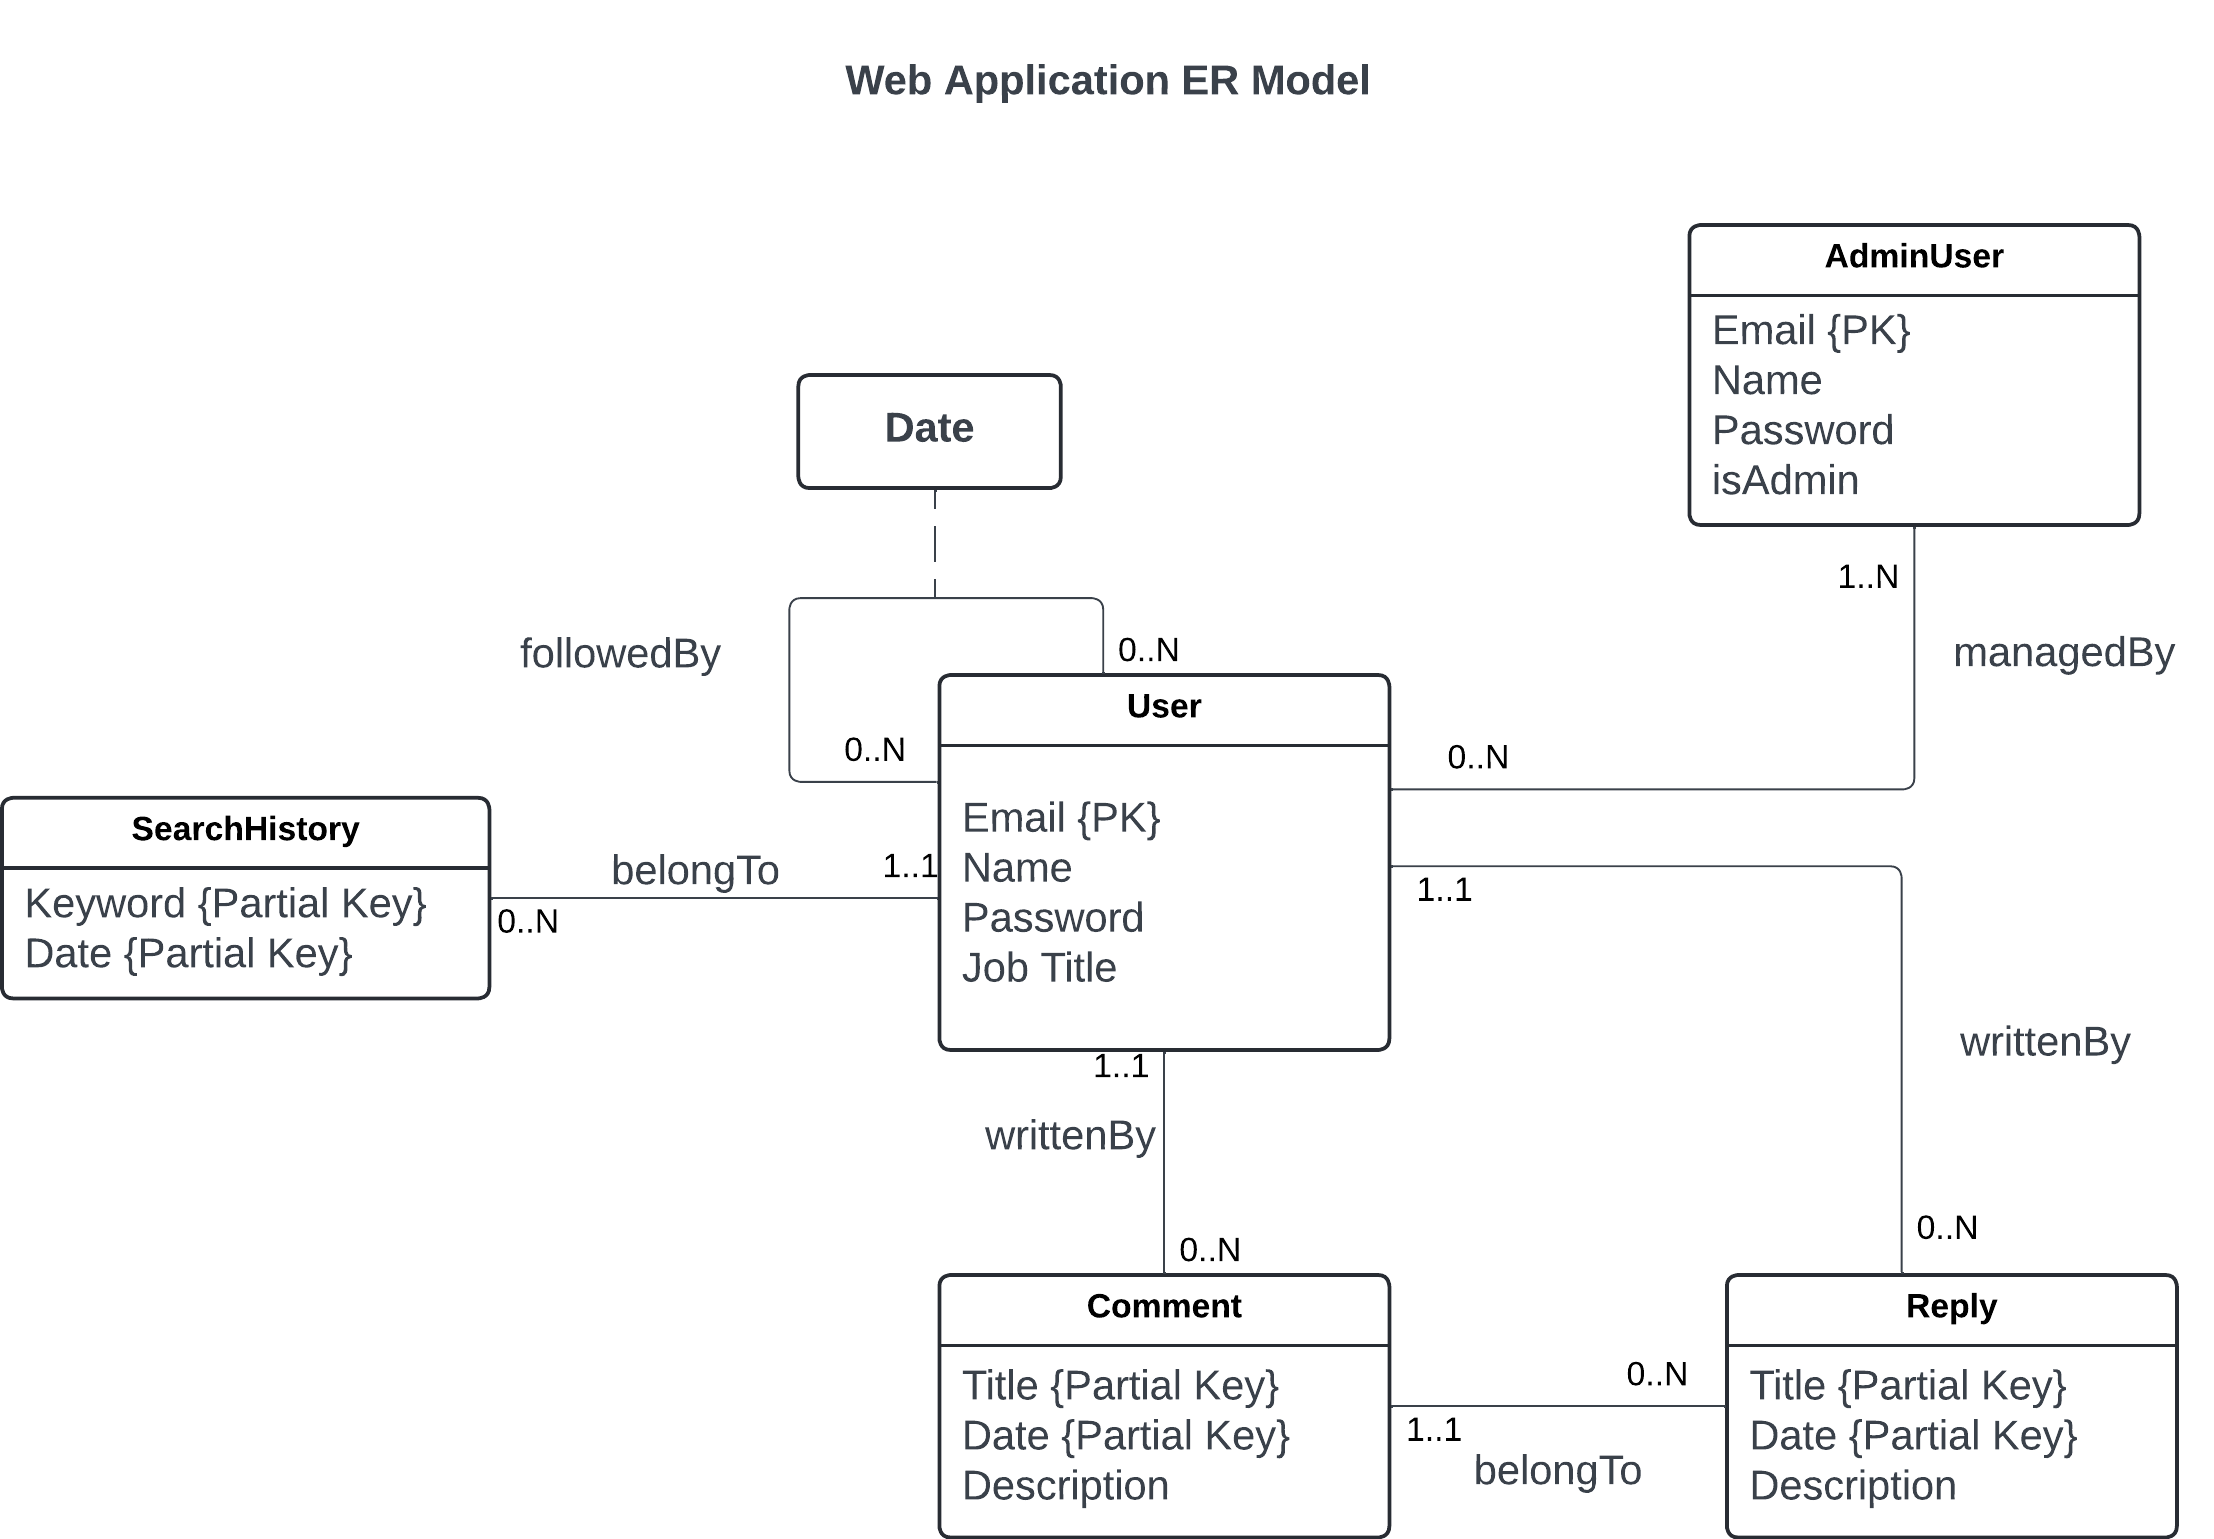
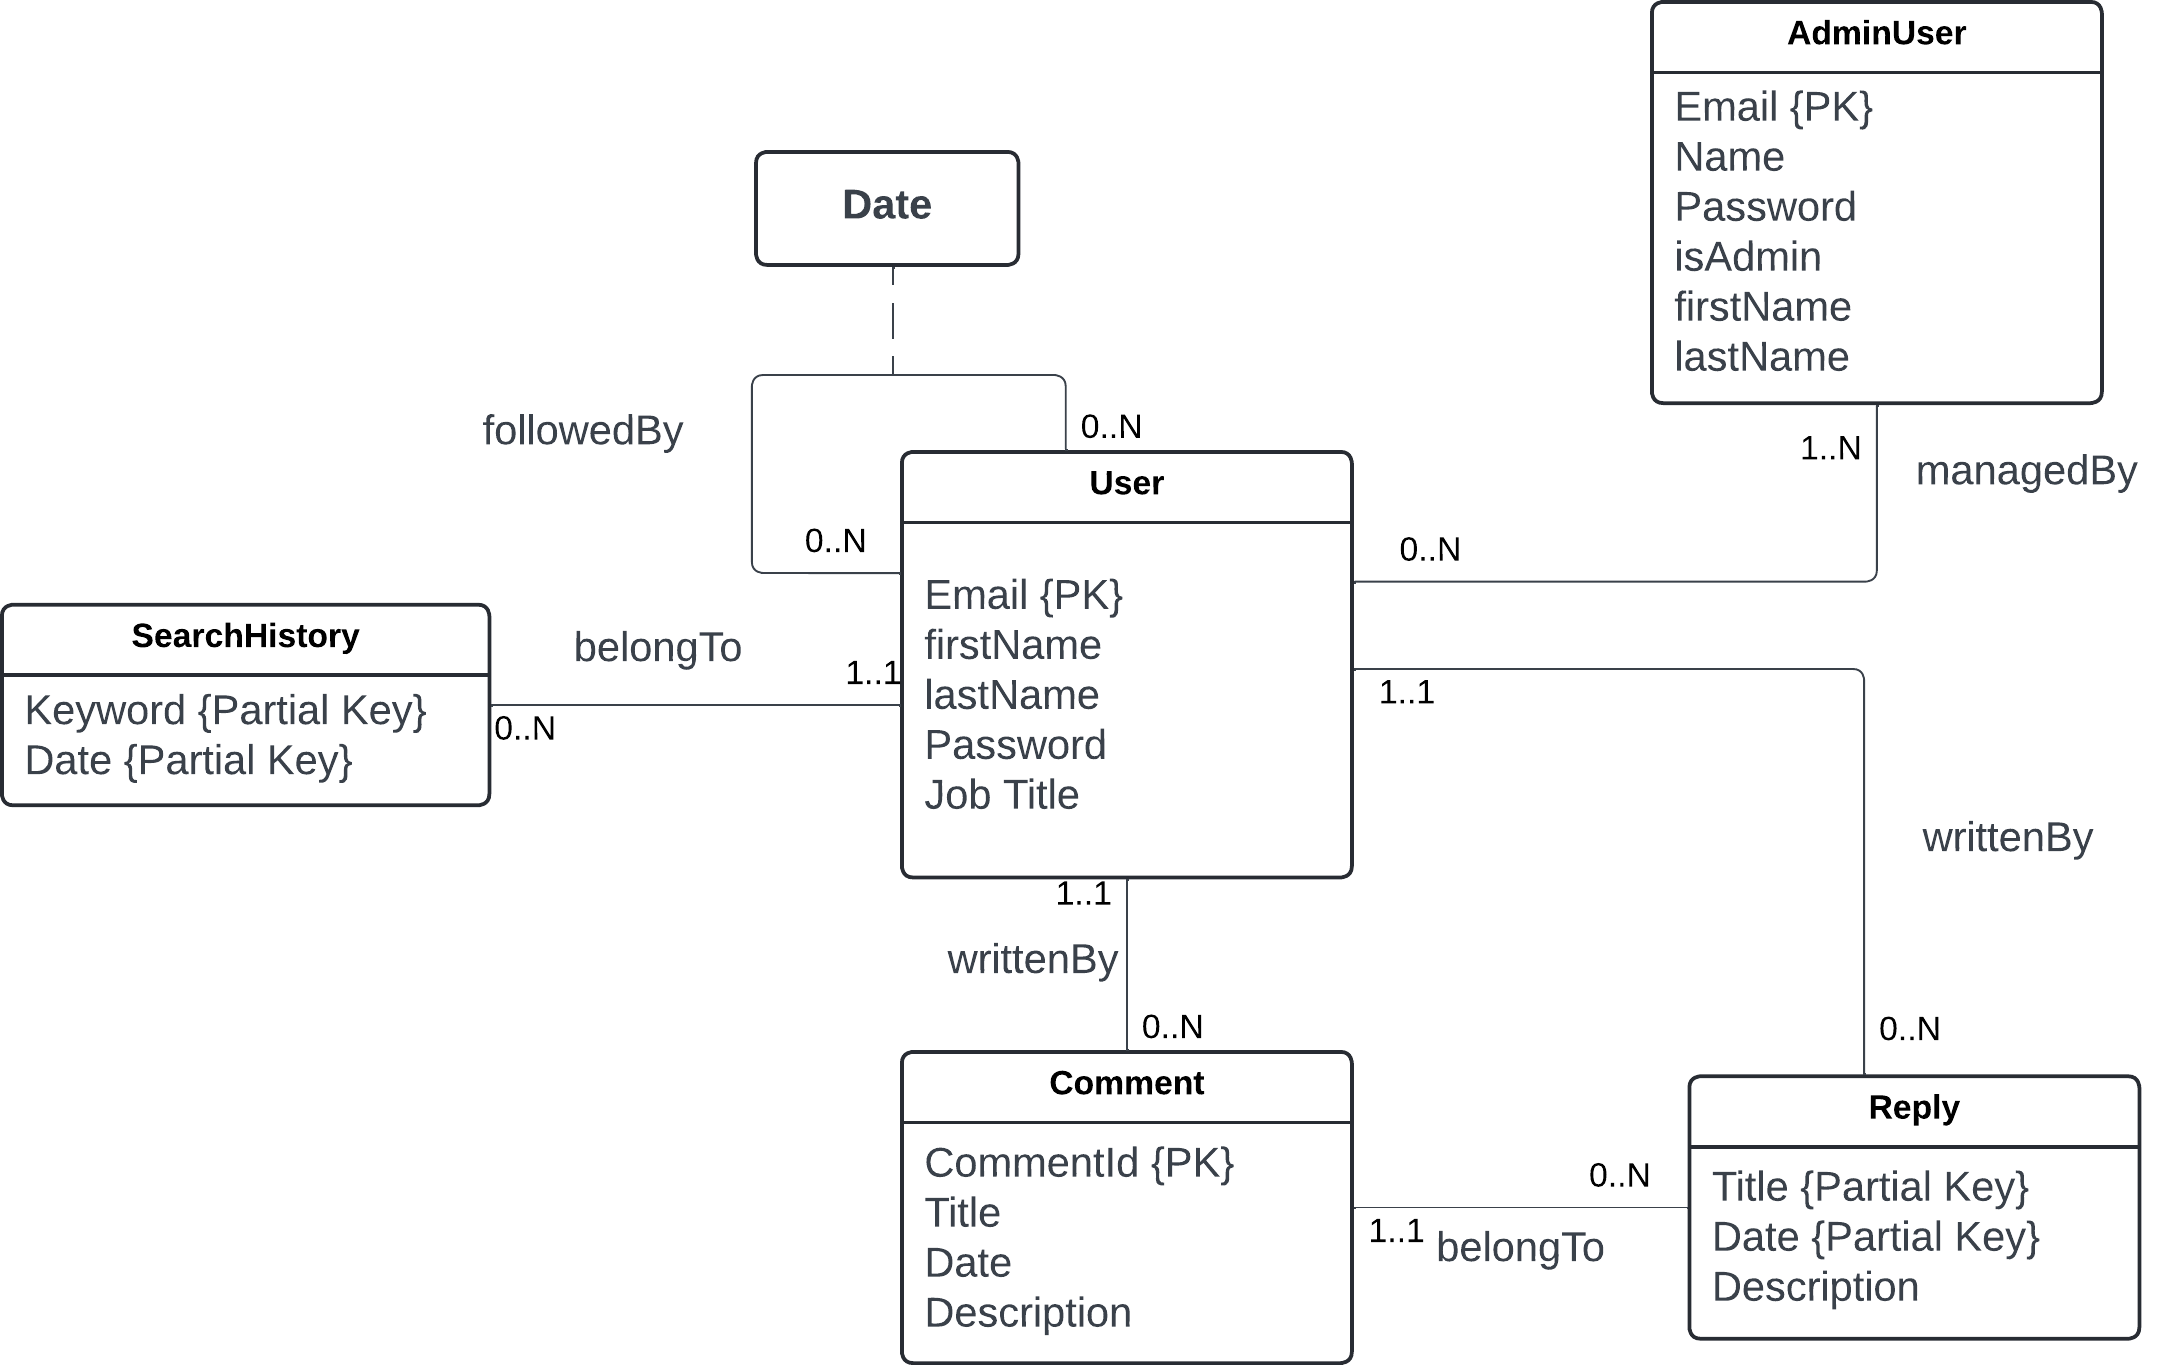
update ER model, fix table name issues

diff --git a/backend/src/database/index.js b/backend/src/database/index.js
@@ -25,29 +25,83 @@ db.managedBy = require("./models/managedBy.js")(db.sequelize, DataTypes);
 
 // Relate search history and user
 db.searchHistory.belongsTo(db.user, {
-  foreignKey: { name: "email", primaryKey: true },
+  foreignKey: {
+    name: "userEmail",
+    primaryKey: true,
+    constraints: true,
+    onDelete: "CASCADE",
+  },
 });
+
 // Relate comment and user
 db.comment.belongsTo(db.user, {
-  foreignKey: { name: "email", primaryKey: true },
+  foreignKey: {
+    name: "userEmail",
+    constraints: true,
+    onDelete: "CASCADE",
+  },
 });
-// Relate reply and user
-db.reply.belongsTo(db.user, {
-  foreignKey: { name: "email", primaryKey: true },
-});
+
 // Relate reply and comment
 db.reply.belongsTo(db.comment, {
-  foreignKey: { name: "date", primaryKey: true },
+  foreignKey: {
+    name: "commentId",
+    primaryKey: true,
+    constraints: true,
+    onDelete: "CASCADE",
+  },
 });
+
+// Relate reply and user
+db.reply.belongsTo(db.user, {
+  foreignKey: {
+    name: "userEmail",
+    primaryKey: true,
+    constraints: true,
+    onDelete: "CASCADE",
+  },
+});
+
 // Relate followedBy and user
-// db.followedBy.belongsTo(db.user, {
-//   foreignKey: { name: "email" },
-// });
+db.followedBy.belongsTo(db.user, {
+  foreignKey: {
+    name: "followerEmail",
+    primaryKey: true,
+    constraints: true,
+    onDelete: "CASCADE",
+  },
+});
+db.followedBy.belongsTo(db.user, {
+  foreignKey: {
+    name: "followeeEmail",
+    primaryKey: true,
+    constraints: true,
+    onDelete: "CASCADE",
+  },
+});
+
+// Relate managedBy, admin user and user
+db.managedBy.belongsTo(db.user, {
+  foreignKey: {
+    name: "userEmail",
+    primaryKey: true,
+    constraints: true,
+    onDelete: "CASCADE",
+  },
+});
+db.managedBy.belongsTo(db.adminUser, {
+  foreignKey: {
+    name: "adminEmail",
+    primaryKey: true,
+    constraints: true,
+    onDelete: "CASCADE",
+  },
+});
 
 // Include a sync option with seed data logic included
 db.sync = async () => {
   // sync schema
-  await db.sequelize.sync();
+  await db.sequelize.sync({ force: true });
   await seedData();
 };
 

diff --git a/backend/src/database/models/reply.js b/backend/src/database/models/reply.js
@@ -1,5 +1,7 @@
-const comment = require("./comment");
-const user = require("./user");
+const { Sequelize } = require("sequelize");
+const db = {
+  Op: Sequelize.Op,
+};
 
 module.exports = (sequelize, DataTypes) =>
   sequelize.define(
@@ -11,22 +13,6 @@ module.exports = (sequelize, DataTypes) =>
       },
       reply_date: { type: DataTypes.DATE, primaryKey: true },
       description: { type: DataTypes.STRING(400), allowNull: false },
-      email: {
-        type: DataTypes.STRING(32),
-        primaryKey: true,
-        references: {
-          model: user,
-          key: "email",
-        },
-      },
-      commentDate: {
-        type: DataTypes.DATE,
-        primaryKey: true,
-        references: {
-          model: comment,
-          key: "date",
-        },
-      },
     },
     {
       timestamps: false,

diff --git a/backend/src/database/models/managedBy.js b/backend/src/database/models/managedBy.js
@@ -2,25 +2,8 @@ const { adminUser, user } = require("..");
 
 module.exports = (sequelize, DataTypes) =>
   sequelize.define(
-    "managedBy",
-    {
-      adminEmail: {
-        type: DataTypes.STRING(32),
-        primaryKey: true,
-        references: {
-          model: adminUser,
-          key: "email",
-        },
-      },
-      userEmail: {
-        type: DataTypes.STRING(32),
-        primaryKey: true,
-        references: {
-          model: user,
-          key: "email",
-        },
-      },
-    },
+    "adminManagement",
+    {},
     {
       timestamps: false,
     }

diff --git a/backend/src/database/models/followedBy.js b/backend/src/database/models/followedBy.js
@@ -1,24 +1,8 @@
 module.exports = (sequelize, DataTypes) =>
   sequelize.define(
-    "followedBy",
+    "follower",
     {
       date: { type: DataTypes.DATE, primaryKey: true },
-      followerEmail: {
-        type: DataTypes.STRING(32),
-        primaryKey: true,
-        references: {
-          model: "user",
-          key: "email",
-        },
-      },
-      followeeEmail: {
-        type: DataTypes.STRING(32),
-        primaryKey: true,
-        references: {
-          model: "user",
-          key: "email",
-        },
-      },
     },
     {
       timestamps: false,

diff --git a/backend/src/database/models/comment.js b/backend/src/database/models/comment.js
@@ -2,11 +2,15 @@ module.exports = (sequelize, DataTypes) =>
   sequelize.define(
     "comment",
     {
+      commentId: {
+        type: DataTypes.INTEGER,
+        primaryKey: true,
+        autoIncrement: true,
+      },
       title: {
         type: DataTypes.STRING(200),
-        primaryKey: true,
       },
-      date: { type: DataTypes.DATE, primaryKey: true },
+      date: { type: DataTypes.DATE, allowNull: false },
       description: { type: DataTypes.STRING(400), allowNull: false },
     },
     {
